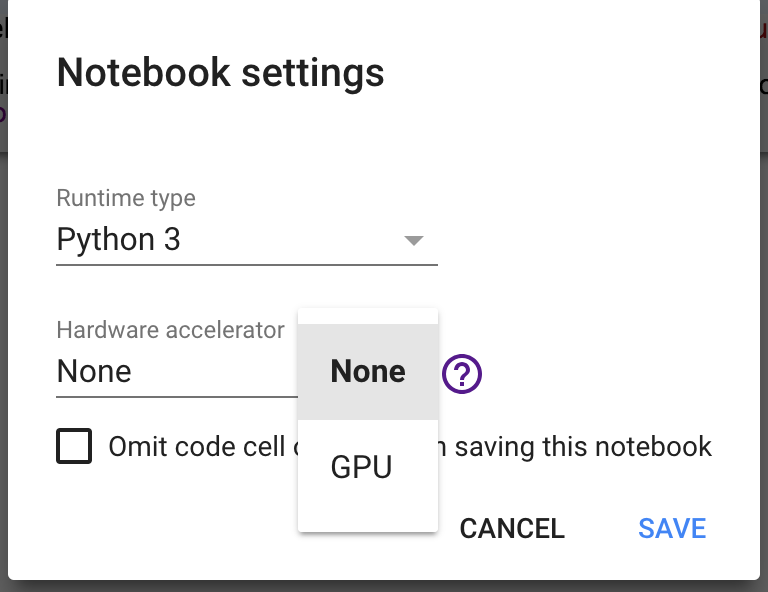
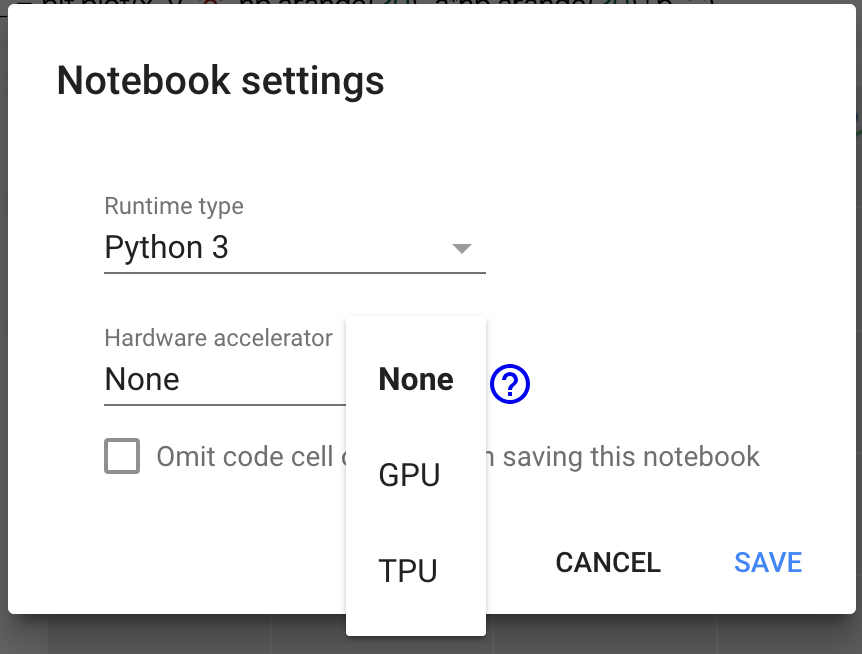
add about tpu

diff --git a/content/past/2018-05-02-colaboratory-is-a-good-tool-for-tensorflow-user.md b/content/past/2018-05-02-colaboratory-is-a-good-tool-for-tensorflow-user.md
@@ -59,7 +59,7 @@ twitter_card_image: /images/icons/colaboratory_icon.png
 
 <br>
 
-![switch_to_gpu_1](/images/20180502/switch_to_gpu_1.png)
+{{< figure src="/images/20180502/switch_to_gpu_1.png" class="center" width="70%" >}}
 
 <br>
 
@@ -67,7 +67,7 @@ twitter_card_image: /images/icons/colaboratory_icon.png
 
 <br>
 
-![switch_to_gpu_2](/images/20180502/switch_to_gpu_2.png)
+{{< figure src="/images/20180502/switch_to_gpu_2.png" class="center" width="70%" >}}
 
 <br>
 
@@ -81,6 +81,15 @@ tf.test.gpu_device_name()
 デバイス名が表示されていますね。(CPUの場合は空文字が返ってきます)
 
 ![switch_to_gpu_3](/images/20180502/switch_to_gpu_3.png)
+
+### TPUも使える
+
+2018/09 頃に **TPU（Tensor Processing Unit）** も選択できるようになりました。
+
+TPUのざっくり説明に関しては [Wikipedia](https://ja.wikipedia.org/wiki/%E3%83%86%E3%83%B3%E3%82%BD%E3%83%AB%E3%83%BB%E3%83%97%E3%83%AD%E3%82%BB%E3%83%83%E3%82%B7%E3%83%B3%E3%82%B0%E3%83%BB%E3%83%A6%E3%83%8B%E3%83%83%E3%83%88) を参照ください。
+
+Googleはエッジコンピューティング向けに [Edge TPU](https://cloud.watch.impress.co.jp/docs/news/1134852.html) を外販するようなので、
+そのTPU向けに書いたコードを試したりできそうですね。神か。
 
 ### Google Driveと連携できる
 
